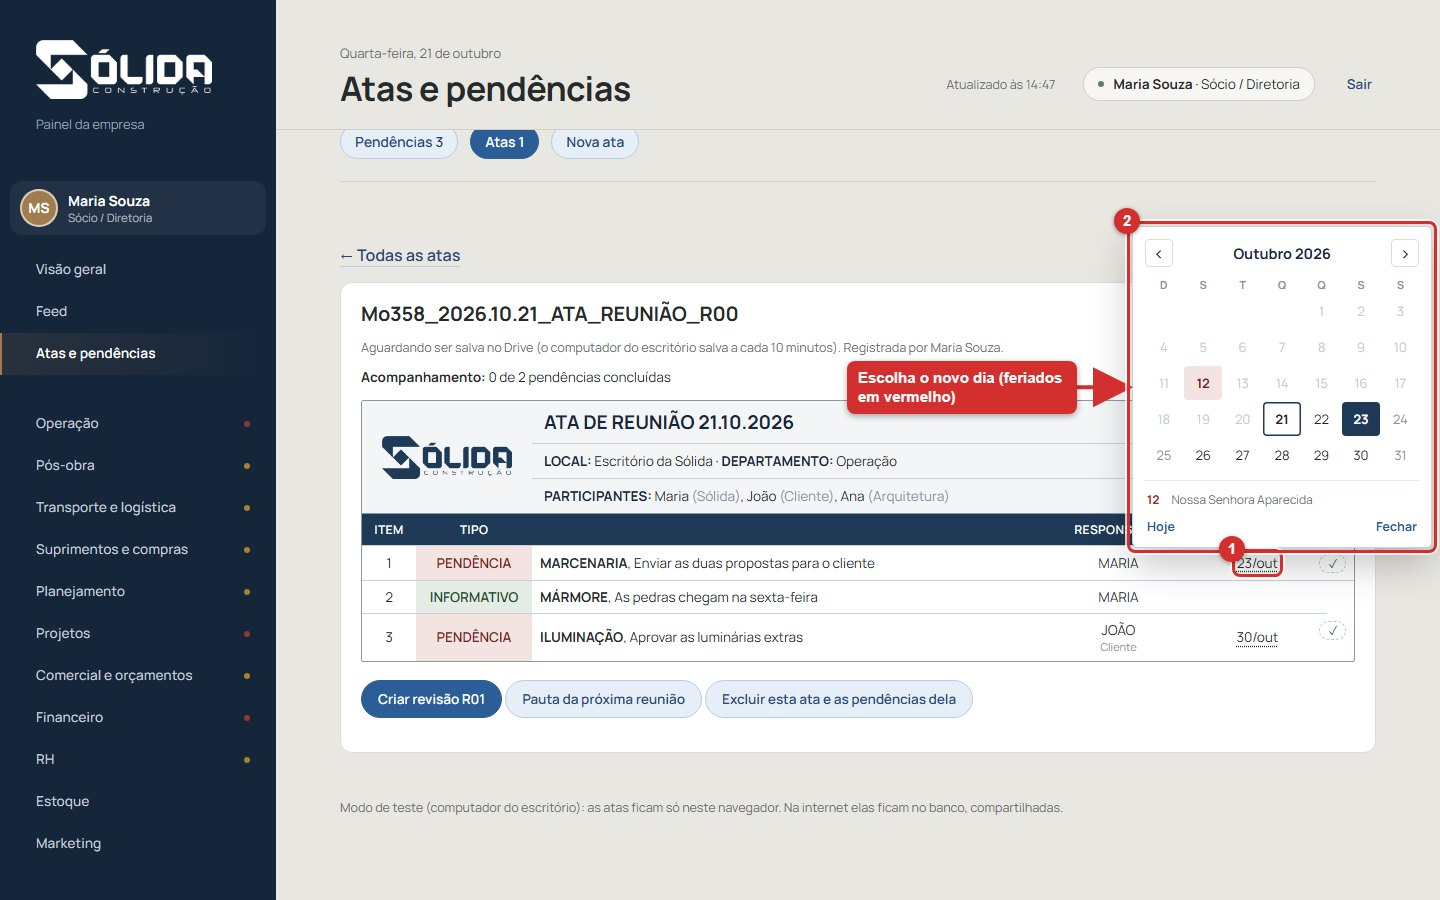
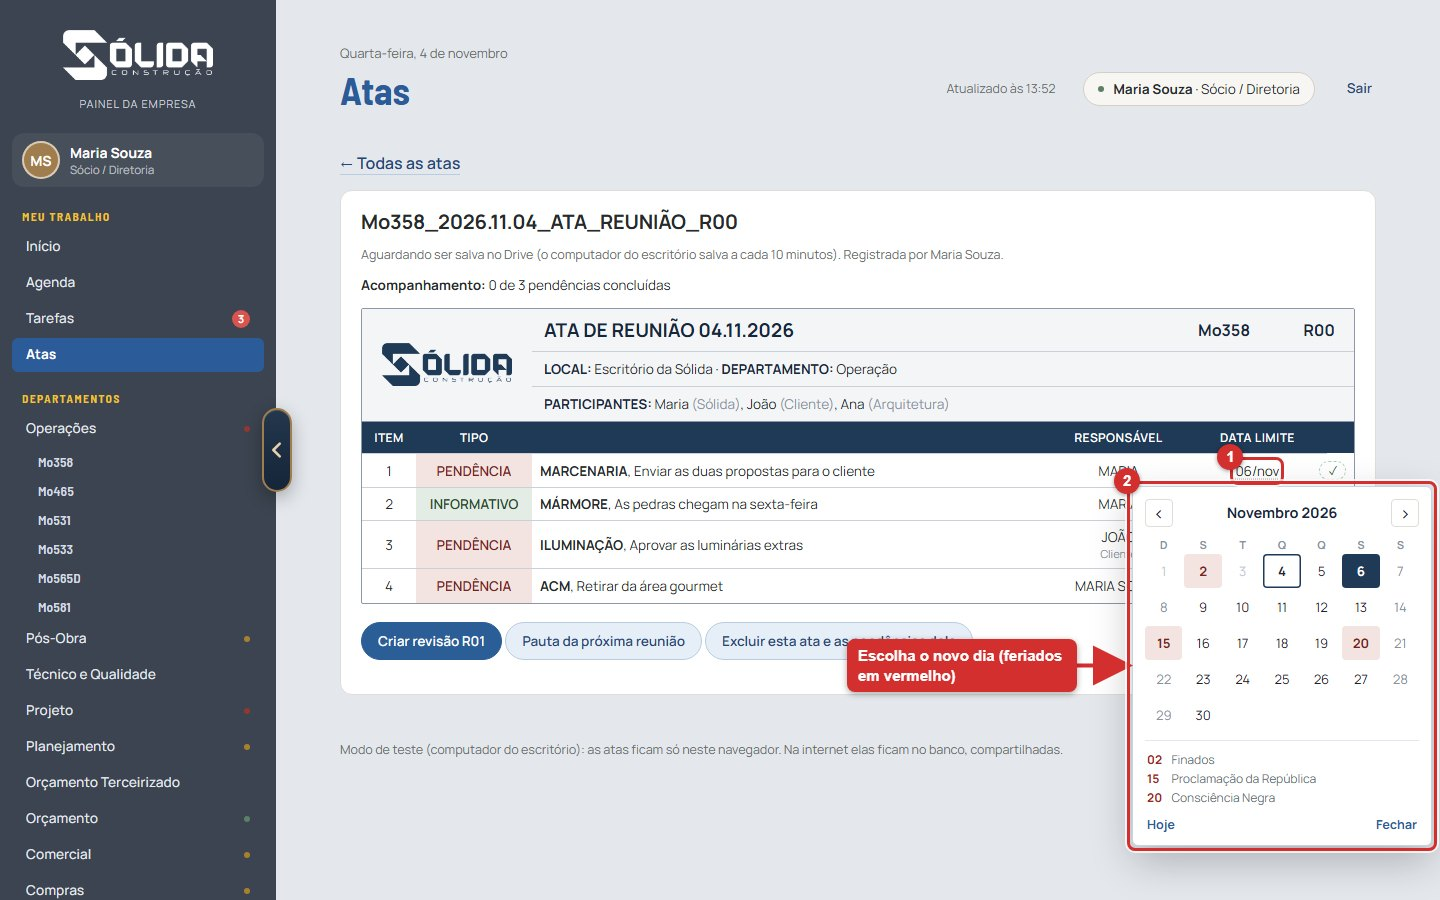
Treinamentos: Agenda (funcoes + tarefas), Tarefas (quadro, filtros, arrastar, detalhes, chat), Atas (atualizado e liberado), Feed, Treinamentos, Estoque com abas e painel de departamento; prints refeitos para a tela nova; quem tem acesso restrito ve so as telas do seu menu

diff --git a/app/js/treinamentos-slides.js b/app/js/treinamentos-slides.js
@@ -9,9 +9,12 @@ const img = (n) => `img/treinamentos/${n}.jpg`;
 // Os tópicos são os nomes do menu da esquerda; os subtópicos são os treinamentos de cada um.
 // tipo 'setor' = área do menu (aparece para quem tem a área); tipo 'pagina' = página geral (aparece para quem vê a página)
 export const TOPICOS = [
-  { id: 'atas', nome: 'Atas e pendências', tipo: 'pagina', pagina: 'atas', icone: '📝' },
-  { id: 'funcoes', nome: 'Minhas funções', tipo: 'pagina', pagina: 'meudia', icone: '✅' },
-  { id: 'operacao', nome: 'Operação', tipo: 'setor', icone: '🏗' },
+  { id: 'agenda', nome: 'Agenda', tipo: 'pagina', pagina: 'meudia', icone: '📅' },
+  { id: 'tarefas', nome: 'Tarefas', tipo: 'pagina', pagina: 'atas', icone: '✅' },
+  { id: 'atas', nome: 'Atas', tipo: 'pagina', pagina: 'atas', icone: '📝' },
+  { id: 'feed', nome: 'Feed', tipo: 'pagina', pagina: 'feed', icone: '💬' },
+  { id: 'treinamentos', nome: 'Treinamentos', tipo: 'pagina', pagina: 'treinamentos', icone: '🎓' },
+  { id: 'operacao', nome: 'Painéis dos departamentos', tipo: 'setor', icone: '🏗' },
   { id: 'posobra', nome: 'Pós-obra', tipo: 'setor', icone: '🛠' },
   { id: 'transporte', nome: 'Transporte e logística', tipo: 'setor', icone: '🚚' },
   { id: 'suprimentos', nome: 'Suprimentos e compras', tipo: 'setor', icone: '📦' },
@@ -28,11 +31,11 @@ export const TOPICOS = [
 // treinamentos com slides (imagem + legenda). Cada um aparece no bloco do menu a que pertence (campo topico).
 export const SUBTOPICOS = [
       {
-        id: 'funcoes-usar', topico: 'funcoes', funcoes: 'todos', titulo: 'Como usar a página Minhas funções', para: 'Todos',
-        resumo: 'Suas tarefas da semana: como ver, marcar o que foi feito e o que não foi, e mudar o horário de cada uma.',
+        id: 'funcoes-usar', topico: 'agenda', funcoes: 'todos', titulo: 'Como usar as suas funções da semana (Agenda)', para: 'Todos',
+        resumo: 'As funções da sua semana, na Agenda: como ver, marcar o que foi feito e o que não foi, e mudar o horário de cada uma.',
         slides: [
-          { imagem: img('func-01-menu'), titulo: 'Onde fica', texto: 'Minhas funções é a página onde você controla o seu trabalho do dia a dia. No menu da esquerda, clique em Minhas funções.',
-            legenda: ['Minhas funções: as tarefas da sua função, de segunda a sexta.', 'Treinamentos: aqui você revê este passo a passo quando quiser.'] },
+          { imagem: img('func-01-menu'), titulo: 'Onde fica', texto: 'A Agenda é a página onde você controla o seu trabalho do dia a dia: as funções da sua semana (antes chamada "Minhas funções") e as suas tarefas com prazo. No menu da esquerda, em Meu trabalho, clique em Agenda.',
+            legenda: ['Agenda: as funções da sua função, de segunda a sexta, e as suas tarefas.', 'Treinamentos: aqui você revê este passo a passo quando quiser.'] },
           { imagem: img('func-02-quadro'), titulo: 'A sua semana', texto: 'Cada coluna é um dia (de segunda a sexta), as horas ficam na lateral (de meia em meia hora) e cada cartão é uma tarefa da sua função. O cartão tem a altura do tempo que a tarefa ocupa: uma tarefa de 8h às 9h ocupa as linhas das 8h e das 8h30. A barra mostra quantas você já marcou como feitas na semana.',
             legenda: ['O seu nome e a sua função.', 'Barra de progresso: tarefas feitas até hoje.', 'O dia: o de hoje fica destacado em amarelo e mostra quantas tarefas você já fez.', 'Um cartão = uma tarefa, do começo ao fim do horário dela. Tarefas no mesmo horário ficam lado a lado.'],
             dica: 'Tarefas de dias que ainda não chegaram aparecem em cinza: só dá para marcar de hoje para trás.' },
@@ -55,19 +58,19 @@ export const SUBTOPICOS = [
             dica: 'Tarefas de semanas passadas que ficaram sem marcação você marca direto na semana anterior.' },
           { imagem: img('func-08-fora'), titulo: 'Tarefas fora do quadro', texto: 'Algumas tarefas não têm dia certo (mensais, quinzenais, ocasionais). Elas ficam numa lista no fim da página, junto com as observações da sua função.',
             legenda: ['Fora do quadro: tarefas mensais e ocasionais e as observações da sua função.'] },
-          { imagem: img('func-09-treinamento'), titulo: 'Pronto: é só isso', texto: 'Todo dia, abra Minhas funções e marque ✓ Feito ou ✕ Não feito em cada tarefa. A marcação vale ponto e mostra para a diretoria como a semana está andando.',
+          { imagem: img('func-09-treinamento'), titulo: 'Pronto: é só isso', texto: 'Todo dia, abra a Agenda e marque ✓ Feito ou ✕ Não feito em cada tarefa. A marcação vale ponto e mostra para a diretoria como a semana está andando.',
             legenda: ['Para rever este passo a passo, clique em "Como funciona esta página", no fim da página.'],
             dica: 'Dúvida? Fale com o seu gestor ou use o botão "Pedir alteração" para sugerir uma melhoria.' },
         ],
       },
       {
-        id: 'ata-criar', topico: 'atas', funcoes: 'todos', oculto: true, titulo: 'Como criar uma ata no sistema', para: 'Todos',
+        id: 'ata-criar', topico: 'atas', funcoes: 'todos', titulo: 'Como criar uma ata no sistema', para: 'Todos',
         resumo: 'Do menu até a ata pronta: dados, itens, importação de ata pronta, PDF e pauta da próxima reunião.',
         slides: [
-          { imagem: img('ata-01-menu'), titulo: 'Onde ficam as atas', texto: 'Toda reunião vira uma ata no sistema, e quem faz a ata é qualquer pessoa da equipe. No menu da esquerda, clique em Atas e pendências.',
-            legenda: ['Atas e pendências: todo mundo vê este menu. O número vermelho ao lado mostra quantas pendências abertas são suas.'] },
-          { imagem: img('ata-02-nova-ata'), titulo: 'Comece pela aba "Nova ata"', texto: 'No alto da tela há três abas. Para criar uma ata, clique em Nova ata.',
-            legenda: ['Nova ata: aqui você cria a ata.', 'Pendências: aqui ficam as pendências de todo mundo, em um quadro por prazo (vencido, hoje, esta semana…).'] },
+          { imagem: img('ata-01-menu'), titulo: 'Onde ficam as atas', texto: 'Toda reunião vira uma ata no sistema, e quem faz a ata é qualquer pessoa da equipe. No menu da esquerda, em Meu trabalho, clique em Atas. As tarefas que saem das atas ficam em Tarefas.',
+            legenda: ['Atas: a lista das atas e o botão para criar uma nova.'] },
+          { imagem: img('ata-02-nova-ata'), titulo: 'Comece pelo botão "+ Nova ata"', texto: 'Na tela Atas, no alto, à esquerda, fica o botão + Nova ata. Para criar uma ata, clique nele.',
+            legenda: ['+ Nova ata: aqui você cria a ata.', 'Tarefas: aqui ficam as tarefas de todo mundo, em um quadro por prazo (vencido, hoje, esta semana…).'] },
           { imagem: img('ata-03-dados'), titulo: 'Preencha os dados da reunião', texto: 'Estes campos são obrigatórios: sem eles a ata não salva.',
             legenda: ['Data da reunião.', 'Obra da reunião. Se não for de uma obra, escolha "Nenhuma".', 'Departamento: escolha sempre um.', 'Nome da ata: sai sozinho no padrão da Sólida (obra, data, tipo e revisão) e é o nome do PDF que vai para o Drive.', 'Local: online, no escritório, na obra…', 'Participantes: escreva Nome (empresa), separados por vírgula. Exemplo: Maria (Sólida), João (Cliente), Ana (Arquitetura).'],
             dica: 'O tipo da reunião (reunião, arquitetura, cliente…) fica ao lado da data e entra no nome da ata.' },
@@ -79,15 +82,93 @@ export const SUBTOPICOS = [
             dica: 'Linha em branco é ignorada. Só as linhas que você começou a preencher precisam estar completas.' },
           { imagem: img('ata-06-salvar'), titulo: 'A ata sai no padrão da Sólida', texto: 'Ao clicar em Salvar ata, ela aparece como a ata da Sólida: cabeçalho com logo, tabela com item, tipo, responsável e data limite.',
             legenda: ['Nome da ata, no padrão: obra, data, tipo e revisão.', 'A tabela da ata: pendência em vermelho, informativo em verde. O PDF vai sozinho para a pasta da obra no Drive (Gerenciamento › ATA), em até 10 minutos. Ata sem obra fica só no sistema.', 'Criar revisão: abre a ata para você mexer em qualquer coisa (dados, itens, participantes). A ata ganha R01, R02… e o PDF novo vai para o Drive; o antigo continua lá.', 'Pauta da próxima reunião: monta o que ficou aberto desta ata, pronto para copiar.'] },
-          { imagem: img('ata-08-importar'), titulo: 'Importar um PDF ou colar o texto', texto: 'Já tem a ata pronta em PDF, ou o texto num e-mail ou aplicativo? Não precisa digitar de novo.',
+          { imagem: img('ata-11-nova'), titulo: 'Importar fica fechado até você precisar', texto: 'Ao abrir uma nova ata, o formulário já vem pronto para preencher. A caixa de importar uma ata pronta (PDF) ou colar a transcrição fica fechada: clique nela só quando for usar.',
+            legenda: ['Importar uma ata pronta ou colar a transcrição: clique para abrir.', 'O formulário da ata: comece pelos dados da reunião.'] },
+          { imagem: img('ata-08-importar'), titulo: 'Importar um PDF ou colar o texto', texto: 'Já tem a ata pronta em PDF, ou o texto num e-mail ou aplicativo? Não precisa digitar de novo. Abra a caixa de importar e escolha uma das duas formas.',
             legenda: ['Escolher arquivo: envie o PDF (ou arquivo de texto) da ata. Atas no padrão da Sólida são lidas por inteiro, linha a linha.', 'Ou cole o texto da ata aqui.', 'Ler o texto colado: o sistema monta as linhas da ata, com responsável e prazo quando conseguir achar.'],
             dica: 'PDF que é foto ou digitalização não tem texto para ler: nesse caso cole o texto. Depois de importar, confira e complete o que faltar.' },
           { imagem: img('ata-09-depois'), titulo: 'Depois da ata: reprogramar uma data', texto: 'Na ata salva, clique na data de uma pendência para escolher outro dia. A data antiga fica guardada e a pendência aparece como "reprogramada".',
             legenda: ['Clique na data da pendência.', 'O calendário mostra os feriados em vermelho. Escolha o novo dia.'],
             dica: 'Para dar a pendência como feita, clique no ✓ ao lado da data.' },
-          { imagem: img('ata-10-pendencias'), titulo: 'Acompanhe tudo na aba Pendências', texto: 'A aba Pendências reúne as pendências de todas as atas. Você filtra por pessoa, setor ou obra e vê o que está vencido, o que vence hoje e o que vem pela frente.',
+          { imagem: img('ata-10-pendencias'), titulo: 'Acompanhe tudo em Tarefas', texto: 'A tela Tarefas reúne as pendências de todas as atas (veja o treinamento "Como usar as Tarefas"). Você filtra por pessoa, setor ou obra e vê o que está vencido, o que vence hoje e o que vem pela frente.',
             legenda: ['O + de cada coluna cria uma pendência que não veio de uma ata (já vem com o prazo da coluna).', 'Concluir: dá a pendência como feita.', 'Clique na data para reprogramar.'],
             dica: 'Excluir uma pendência da lista não apaga o item da ata: a ata só muda por uma revisão.' },
+        ],
+      },
+      {
+        id: 'agenda-tarefas', topico: 'agenda', funcoes: 'todos', titulo: 'Suas tarefas na Agenda', para: 'Todos',
+        resumo: 'As tarefas com prazo aparecem no dia certo da sua Agenda, como no Google Agenda: veja, abra, arraste e reprograme.',
+        slides: [
+          { imagem: img('agenda-01-menu'), titulo: 'Agenda e Tarefas, lado a lado', texto: 'No menu, em Meu trabalho, ficam a Agenda (o seu dia e as suas tarefas), as Tarefas (o quadro de todas as tarefas da equipe) e as Atas. A Agenda mostra as suas funções da semana e, em cima de cada dia, as tarefas que vencem naquele dia.',
+            legenda: ['Agenda: as suas funções da semana e as suas tarefas, dia a dia.', 'Tarefas: o quadro com todas as tarefas, por prazo (veja o treinamento "Como usar as Tarefas").', 'Atas: as atas das reuniões.'],
+            dica: 'O número vermelho ao lado de Tarefas mostra quantas tarefas abertas são suas.' },
+          { imagem: img('agenda-02-semana'), titulo: 'Cartõezinhos de tarefa em cada dia', texto: 'Cada cartãozinho colorido, logo abaixo do nome do dia, é uma tarefa com prazo naquele dia, com a obra e o assunto. Entram só as tarefas em que você é o responsável ou o gestor. Quando há mais de três no mesmo dia, aparece "+N" para ver o resto.',
+            legenda: ['Resumo da semana: quantas tarefas em aberto e quantas vencidas.', 'Um cartãozinho = uma tarefa com prazo neste dia. Clique nele para abrir os detalhes.'] },
+          { imagem: img('agenda-03-cores'), titulo: 'As cores e a tarefa vencida', texto: 'A cor diz a situação. A tarefa vencida não some nem muda de dia: fica no dia em que venceu, em vermelho, até você resolver. Para resolver, clique no ↻ ao lado dela e escolha o novo dia (ou conclua a tarefa).',
+            legenda: ['Vermelho: vencida.', 'Azul: vence hoje.', 'Cinza-azulado: vence nos próximos dias.', 'A vencida fica no dia em que venceu.', '↻ Reprogramar: abre o calendário (feriados em vermelho) para escolher o novo prazo.'],
+            dica: 'A data antiga fica guardada: a tarefa passa a aparecer como "reprogramada" e dá para ver quantas vezes isso aconteceu.' },
+          { imagem: img('agenda-04-arrastar'), titulo: 'Arraste o cartão para outro dia', texto: 'Precisa mudar o prazo? Segure o cartãozinho e solte em outro dia da semana: o prazo muda na hora, igual a mover um compromisso no Google Agenda.',
+            legenda: ['Arraste o cartão para o dia novo.', 'O dia que recebe o cartão fica destacado enquanto você arrasta.'] },
+          { imagem: img('tarefas-04-detalhes'), titulo: 'Clique no cartão para ver os detalhes', texto: 'Clicar em um cartãozinho abre a tarefa: dá para mudar o título, o responsável, o gestor e o prazo, concluir, excluir e anotar no chat. O treinamento "Como usar as Tarefas" mostra tudo isso passo a passo.',
+            legenda: ['Título (assunto e o que fazer).', 'Responsável.', 'Gestor: automático ou escolhido por você.', 'Prazo.', 'Concluir a tarefa.', 'Excluir (se veio de uma ata, só tira da lista e o item continua na ata).'] },
+        ],
+      },
+      {
+        id: 'tarefas-usar', topico: 'tarefas', funcoes: 'todos', titulo: 'Como usar as Tarefas', para: 'Todos',
+        resumo: 'O quadro por prazo, os filtros, arrastar o cartão para mudar o prazo e a janela da tarefa com chat.',
+        slides: [
+          { imagem: img('tarefas-01-quadro'), titulo: 'O quadro por prazo', texto: 'Tarefas reúne as tarefas de todas as atas e as que foram criadas direto aqui. Cada coluna é um prazo: Vencido, Vencimento hoje, esta semana, próxima semana, sem prazo, em duas semanas ou mais e Concluído. Cada tarefa é um cartão.',
+            legenda: ['Vencido: passou do prazo e ainda não foi concluída.', 'Vencimento hoje.', 'O + de cada coluna cria uma tarefa nova com o prazo da coluna.'],
+            dica: 'Quem é de obra vê só as tarefas das suas obras; o resto da equipe vê as do seu departamento e as suas.' },
+          { imagem: img('tarefas-02-filtros'), titulo: 'Filtre o que quer ver', texto: 'No alto há quatro filtros. Responsável: todas as tarefas, só as minhas, equipe da Sólida, terceirizados, clientes ou arquitetura. Setor: o departamento da empresa. Obra. E o campo Procurar, que busca por texto.',
+            legenda: ['Responsável: Todos, Só as minhas, Equipe da Sólida, Terceirizados, Clientes, Arquitetura.', 'Setor: os departamentos da empresa.', 'Obra.', 'Procurar: digite parte do título, do nome ou da obra.'] },
+          { imagem: img('tarefas-03-arrastar'), titulo: 'Arraste o cartão para mudar o prazo', texto: 'Para mudar o prazo, arraste o cartão para outra coluna. Soltou em "Vencimento hoje", o prazo vira hoje. Soltou em "Concluído", a tarefa é dada como feita. Soltou em "Sem prazo", a data some. Se você arrasta de volta para "Vencido" uma tarefa que foi reprogramada, ela volta para o dia que estava antes.',
+            legenda: ['Arraste o cartão de uma coluna para outra.', 'A coluna de destino fica destacada.', 'Concluído: dá a tarefa como feita.'],
+            dica: 'Em "Vencido" só volta a tarefa que tinha uma data anterior já vencida; as outras entram ali sozinhas quando o prazo passa.' },
+          { imagem: img('tarefas-04-detalhes'), titulo: 'Clique no cartão: a tarefa por dentro', texto: 'Clicando no cartão abre a janela da tarefa. Dá para mudar o título (assunto e o que fazer), o responsável, o gestor e o prazo, concluir (ou reabrir) e excluir. Só pode mudar quem é o responsável, o gestor ou quem criou a tarefa; os outros veem e anotam.',
+            legenda: ['Título: o assunto e o que fazer.', 'Responsável: uma pessoa da Sólida ou "Outro" (terceirizado, cliente, arquitetura).', 'Gestor: "Automático" segue as obras e os setores; escolher uma pessoa fixa o gestor.', 'Prazo.', 'Concluir.', 'Excluir. Tarefa que veio de uma ata só é tirada da lista: o item continua na ata.'],
+            dica: 'Depois de mudar qualquer campo, clique em "Salvar alterações".' },
+          { imagem: img('tarefas-05-chat'), titulo: 'Anote no chat da tarefa', texto: 'No fim da janela fica o chat da tarefa. Use para registrar o que foi combinado, cobrado ou resolvido. Cada anotação mostra quem escreveu e quando. Todos que enxergam a tarefa leem as anotações.',
+            legenda: ['As anotações, da mais antiga para a mais nova. Você apaga só as suas (×).', 'Escreva a anotação e clique em Enviar (ou Ctrl+Enter).'],
+            dica: 'Escreveu um link? Ele vira clicável sozinho.' },
+        ],
+      },
+      {
+        id: 'feed-usar', topico: 'feed', funcoes: 'todos', titulo: 'Como usar o Feed', para: 'Todos',
+        resumo: 'Os recados e as novidades da equipe: publicar, comentar e curtir.',
+        slides: [
+          { imagem: img('feed-01'), titulo: 'O Feed da equipe', texto: 'O Feed é o mural da Sólida: recados, avisos e novidades. Qualquer pessoa publica, comenta e curte. A bolinha vermelha ao lado de Feed mostra que há publicação nova que você ainda não viu.',
+            legenda: ['Feed: abra para ler as novidades e publicar.'],
+            dica: 'Para assuntos de trabalho que precisam de responsável e prazo, crie uma tarefa em vez de usar o Feed.' },
+        ],
+      },
+      {
+        id: 'trein-usar', topico: 'treinamentos', funcoes: 'todos', titulo: 'Como usar os Treinamentos', para: 'Todos',
+        resumo: 'Onde achar o passo a passo de cada tela e marcar o que você já viu.',
+        slides: [
+          { imagem: img('trein-01'), titulo: 'Passo a passo de cada tela', texto: 'Em Treinamentos, os blocos seguem o menu: cada tela do sistema tem o seu passo a passo, com prints reais e setas vermelhas. Clique em "abrir" para ver; no último passo, "Concluir treinamento" marca como visto. Dá para rever quando quiser.',
+            legenda: ['Treinamentos: a lista de passo a passo, por tela.', 'Cada bloco: o nome da tela, quantos passos e se você já viu.'],
+            dica: 'Use as setas do teclado (← →) para passar os passos e Esc para fechar.' },
+        ],
+      },
+      {
+        id: 'estoque-abas', topico: 'estoque', funcoes: 'todos', titulo: 'O Estoque e as suas abas', para: 'Quem acessa o Estoque',
+        resumo: 'O estoque do galpão e, embaixo do título, as abas de contagem, guia de movimentação, pedidos, checklists e reposição.',
+        slides: [
+          { imagem: img('estoque-01-abas'), titulo: 'Só o estoque, e as abas embaixo do título', texto: 'A tela Estoque mostra só o estoque do galpão: o resumo e a lista de itens, com a quantidade e o mínimo. O que se faz com o estoque fica nas abas logo abaixo do título: Contagem do estoque (digitar o que foi contado, no lugar da folha escrita à mão), Guia de movimentação (registrar saídas, entradas e consertos, com foto), Pedir itens do estoque, Checklists de ferramentas e Reposição (o que falta e o que comprar).',
+            legenda: ['Estoque: o resumo e a lista de itens do galpão.', 'Contagem do estoque: escolha o local, digite só o que contou e salve.', 'Guia de movimentação: registre qualquer movimentação de ferramentas e materiais.', 'Pedir itens do estoque (em preparação).'],
+            dica: 'Na Reposição dá para filtrar por categoria (ferramentas, maquinários, limpeza…): a lista de compras e as rotas consideram só as categorias marcadas.' },
+        ],
+      },
+      {
+        id: 'paineis-usar', topico: 'operacao', funcoes: 'todos', titulo: 'Como ler o painel de um departamento', para: 'Todos',
+        resumo: 'Todo departamento segue o mesmo desenho: uma pergunta, indicadores com meta e "quem precisa agir".',
+        slides: [
+          { imagem: img('painel-01-departamento'), titulo: 'Uma pergunta por painel', texto: 'Cada departamento do menu tem um painel com o mesmo desenho. No alto, a faixa escura diz a pergunta que aquele painel responde. Abaixo vêm os indicadores, cada um com o valor, a meta, a fonte e a data da leitura. A tela completa de antes continua na aba "Detalhes".',
+            legenda: ['A pergunta que o painel responde.', 'Detalhes: a tela completa que já existia.'],
+            dica: 'A faixa rosa no alto avisa de onde e de quando são os números. Traço (—) quer dizer que a fonte ainda não é lida pelo sistema: o sistema nunca inventa número.' },
+          { imagem: img('painel-02-agir'), titulo: 'Quem precisa agir, e o botão Criar tarefa', texto: 'Cada alerta aparece com o nível (crítico ou atenção), o que está acontecendo, o responsável e o prazo. Clique em "Criar tarefa" e o alerta vira uma tarefa já preenchida, com o texto, a obra e o setor: é só escolher o responsável e o prazo.',
+            legenda: ['Nível do alerta: crítico (vermelho) ou atenção (amarelo).', 'Criar tarefa: o alerta vira tarefa com responsável e data-limite.'] },
         ],
       },
 ];

diff --git a/app/js/telas/treinamentos.js b/app/js/telas/treinamentos.js
@@ -5,7 +5,7 @@
 import { html } from '../formato.js';
 import { funcaoAtual } from '../sessao.js';
 import { TOPICOS, SUBTOPICOS, vistos as slidesVistos } from '../treinamentos-slides.js';
-import { paginaVisivel } from '../funcoes.js';
+import { paginaVisivel, soMinhasFuncoes, temEstoqueRestrito } from '../funcoes.js';
 
 // (mantido por compatibilidade com o menu: não há mais guias de texto)
 export const TREINAMENTOS = [];
@@ -13,7 +13,12 @@ export function alternarFeito() { /* os "já li" dos guias antigos não existem 
 
 const seApplica = (t, funcaoId) => funcaoId === 'socio' || t.funcoes === 'todos' || (Array.isArray(t.funcoes) && t.funcoes.includes(funcaoId));
 // o bloco aparece para quem tem aquele menu: setor nas áreas da função; página geral se a função vê a página
-const topicoVisivel = (t, f) => (t.tipo === 'setor' ? !f.areas || f.areas.includes(t.id) : paginaVisivel(f, t.pagina));
+// quem tem acesso restrito vê só as telas que aparecem no menu dele: Agenda, Tarefas, Atas, Feed, Treinamentos (e o Estoque, se for do galpão)
+const TELAS_RESTRITAS = ['agenda', 'tarefas', 'atas', 'feed', 'treinamentos'];
+const topicoVisivel = (t, f) => {
+  if (soMinhasFuncoes(f) && !TELAS_RESTRITAS.includes(t.id) && !(t.id === 'estoque' && temEstoqueRestrito(f))) return false;
+  return t.tipo === 'setor' ? !f.areas || f.areas.includes(t.id) : paginaVisivel(f, t.pagina);
+};
 
 export function render() {
   const f = funcaoAtual();
